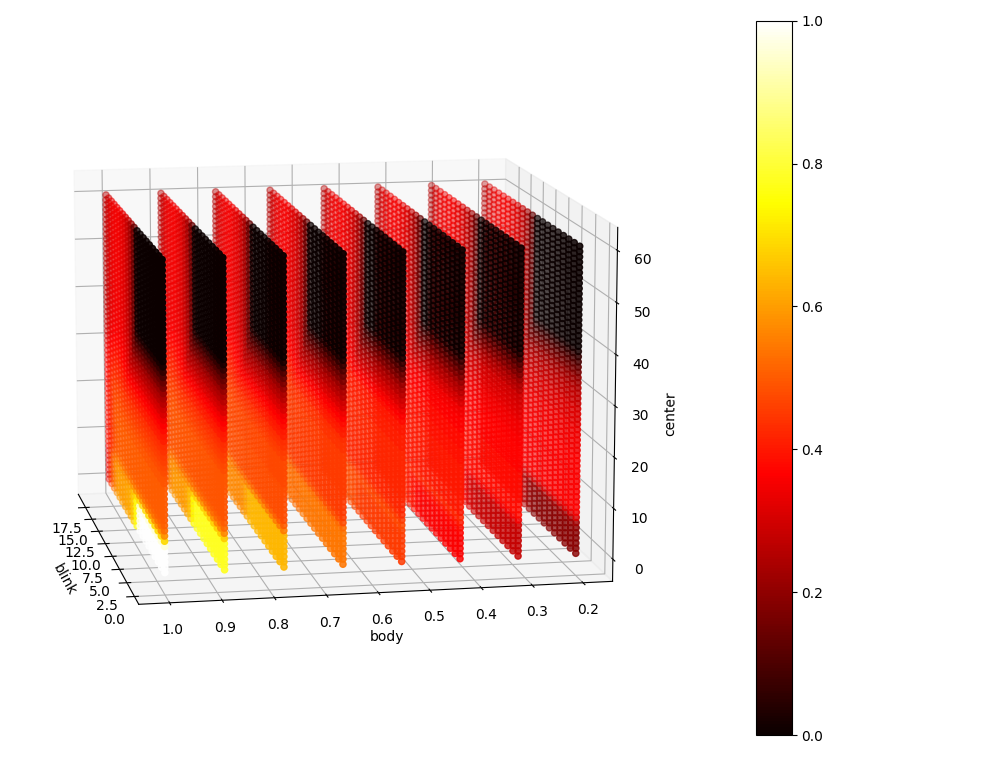
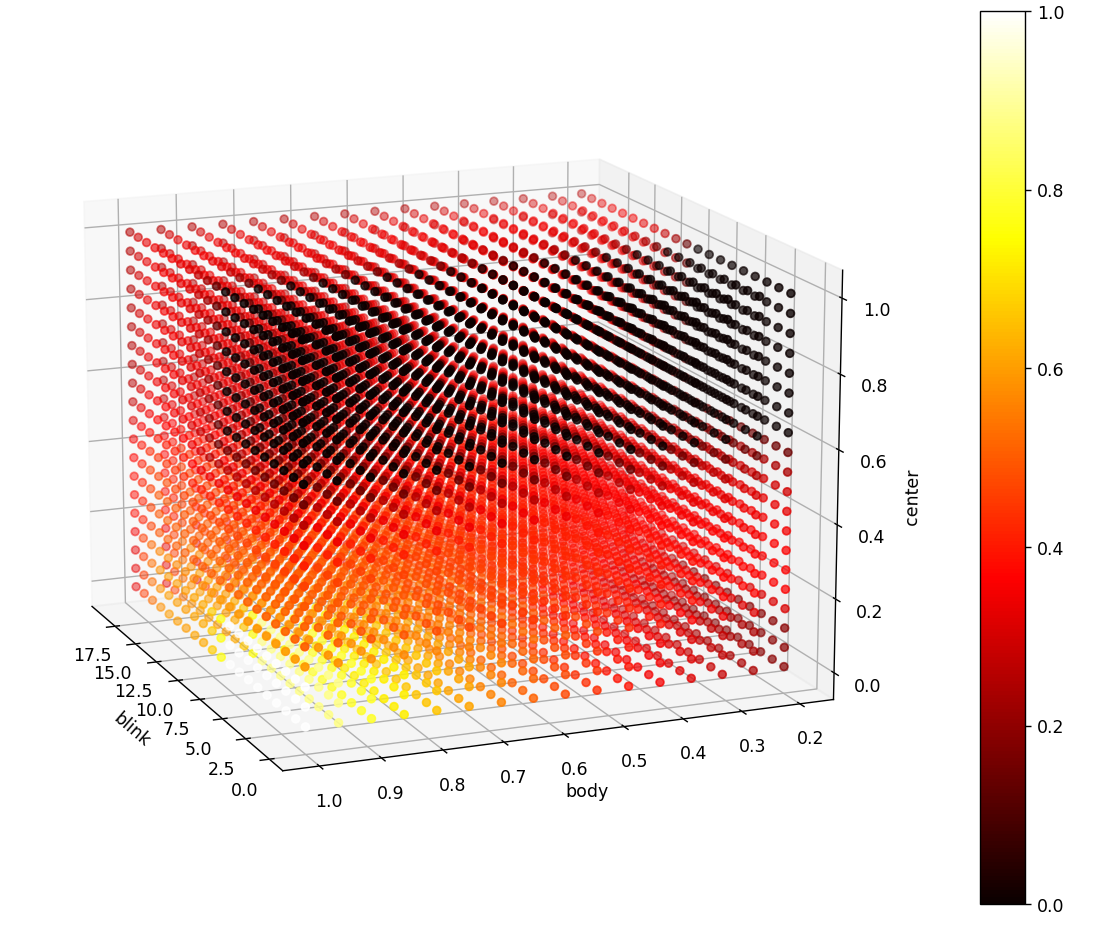
Combine distance and ratio into single value

diff --git a/concentration/fuzzy/grader.py b/concentration/fuzzy/grader.py
@@ -25,7 +25,7 @@ class FuzzyGrader:
             self,
             blink_rate: float,
             body_concent: float,
-            center_dist: float,
+            center_value: float,
             *, normalized: bool = True) -> float:
         """Computes the grade base on fuzzy logics.
 
@@ -36,16 +36,16 @@ class FuzzyGrader:
             blink_concent: The body concentration value, which should be in range [0, 1].
             normalized: Normalize the grade into [0, 1] or not. True in default.
         """
-        self._grader.input["blink"] = FuzzyGrader._map_blink_rate_to_membership_value(blink_rate)
-        self._grader.input["body"] = FuzzyGrader._map_body_concent_to_membership_value(body_concent)
-        self._grader.input["center"] = center_dist
+        self._grader.input["blink"] = blink_rate
+        self._grader.input["body"] = body_concent
+        self._grader.input["center"] = center_value
         self._grader.compute()
 
         grade: float = self._grader.output["grade"]
         if normalized:
             grade = FuzzyGrader._to_modified_grade(grade)
-        # if grade < 0.3:
-        #     print(grade, blink_rate, body_concent, center_dist)
+        if grade < 0.6:
+            print(grade, blink_rate, body_concent, center_value)
         return round(grade, 2)
 
     def view_membership_func(self) -> None:
@@ -68,16 +68,16 @@ class FuzzyGrader:
 
     def _create_membership_func_of_body(self) -> None:
         # The greater the values is, the better the grade of body concentration is.
-        self._body = ctrl.Antecedent(np.arange(11), "body")
-        self._body["good"] = fuzz.trimf(self._body.universe, [0, 10, 10])
-        self._body["poor"] = fuzz.trimf(self._body.universe, [0, 0, 10])
+        self._body = ctrl.Antecedent(np.arange(0, 2, 1), "body")
+        self._body["good"] = fuzz.trimf(self._body.universe, [0, 1, 1])
+        self._body["poor"] = fuzz.trimf(self._body.universe, [0, 0, 1])
 
     def _create_membership_func_of_center(self) -> None:
         """Only takes the distance betweeen centers into consideration."""
-        self._center = ctrl.Antecedent(np.arange(61), "center")
-        self._center["good"] = fuzz.trapmf(self._center.universe, [0, 0, 5, 10])
-        self._center["average"] = fuzz.trapmf(self._center.universe, [5, 10, 15, 40])
-        self._center["poor"] = fuzz.trapmf(self._center.universe, [15, 40, 60, 60])
+        self._center = ctrl.Antecedent(np.arange(0, 1, 0.01), "center")
+        self._center["good"] = fuzz.trapmf(self._center.universe, [0, 0, 0.13, 0.2])
+        self._center["average"] = fuzz.trapmf(self._center.universe, [0.13, 0.2, 0.27, 0.63])
+        self._center["poor"] = fuzz.trapmf(self._center.universe, [0.27, 0.63, 1, 1])
 
     def _create_membership_func_of_grade(self, defuzzify_method: str = "centroid") -> None:
         """
@@ -100,36 +100,14 @@ class FuzzyGrader:
 
     def _create_fuzzy_rules(self) -> List[ctrl.Rule]:
         """Returns the fuzzy rule that control the grade."""
-        rule1 = ctrl.Rule(self._center["poor"] | self._body["poor"] | self._blink["poor"], self._grade["low"])
+        rule1 = ctrl.Rule(self._blink["poor"] | self._body["poor"] | self._center["poor"], self._grade["low"])
         rule2 = ctrl.Rule(self._blink["average"] | self._center["average"], self._grade["medium"])
-        rule3 = ctrl.Rule(self._center["good"] & self._body["good"] & ~self._blink["poor"], self._grade["high"])
+        rule3 = ctrl.Rule(~self._blink["poor"] & self._body["good"] & self._center["good"], self._grade["high"])
         return [rule1, rule2, rule3]
 
     @staticmethod
-    def _map_blink_rate_to_membership_value(blink_rate: float) -> float:
-        """Returns the membership value of the blink rate.
-
-        Arguments:
-            blink_rate
-        """
-        # they're equivalent
-        return blink_rate
-
-    # The body concentration (BC) sent by the ConcentrationGrader is between 0 and 1,
-    # maps them to the membership values (MV) through an easy function: MV = BC * 10
-    # since skfuzzy does better on generating membership functions with non-floating
-    # point intervals.
-    @staticmethod
-    def _map_body_concent_to_membership_value(body_concent: float) -> float:
-        """Returns the membership value of the body concentration.
-
-        Arguments:
-            body_concent
-        """
-        return body_concent * 10
-
-    @staticmethod
     def _to_modified_grade(raw_grade: float) -> float:
+        # (2.0, 8.67)
         return 0.1499 * raw_grade - 0.2999
         # """Normalizes the grade interval to [0, 1] and do linear modification
         #    to fine-tune the grade distribution.
@@ -151,7 +129,7 @@ class FuzzyGrader:
 
 if __name__ == "__main__":
     fuzzy_grader = FuzzyGrader()
-    # fuzzy_grader.view_membership_func()
+    fuzzy_grader.view_membership_func()
 
     import matplotlib.pyplot as plt
     import numpy as np
@@ -160,17 +138,17 @@ if __name__ == "__main__":
     ax = fig.add_subplot(111, projection='3d')
     x, y, z, c = [], [], [], []
     for blink_rate in np.arange(0, 20):
-        for body_concent in np.linspace(0.2, 1, num=8):
-            for center_dist in np.linspace(0, 60, num=60):
+        for body_concent in np.linspace(0.2, 1, num=16):
+            for center_value in np.linspace(0, 1, num=20):
                 x.append(blink_rate)
                 y.append(body_concent)
-                z.append(center_dist)
-                c.append(fuzzy_grader.compute_grade(blink_rate, body_concent, center_dist))
+                z.append(center_value)
+                c.append(fuzzy_grader.compute_grade(blink_rate, body_concent, center_value))
     ax.set_xlabel("blink")
     ax.set_ylabel("body")
     ax.set_zlabel("center")
 
-    img = ax.scatter(x, y, z, c=c, cmap=plt.hot(), vmin=0, vmax=1)
+    img = ax.scatter(x, y, z, c=c, cmap=plt.hot())#, vmin=0, vmax=1)
     fig.colorbar(img)
     plt.show()
     # # go for a single graph check

diff --git a/concentration/grader.py b/concentration/grader.py
@@ -246,15 +246,15 @@ class ConcentrationGrader(QObject):
         if interval_type in {IntervalType.LOOK_BACK, IntervalType.EXTRUSION}:
             if interval_type is IntervalType.EXTRUSION:
                 # Use an average-based BR.
-                blink_rate *= ONE_MIN / (interval.end-interval.start)
-            interval.grade = self._fuzzy_grader.compute_grade(blink_rate, body_concent, dist)
+                blink_rate *= ONE_MIN / (interval.end - interval.start)
+            interval.grade = self._fuzzy_grader.compute_grade(blink_rate, body_concent, face_center_value_from_distance_and_ratio(dist, ratio))
             self.s_concent_interval_refreshed.emit(interval)
             logger.info(f"{dist:.2f}")
             logger.info(f"{ratio:.2f}")
             self._clear_windows(window_type)
             return True
         # REAL_TIMEs
-        grade: float = self._fuzzy_grader.compute_grade(blink_rate, body_concent, dist)
+        grade: float = self._fuzzy_grader.compute_grade(blink_rate, body_concent, face_center_value_from_distance_and_ratio(dist, ratio))
         if grade >= 0.6:
             interval.grade = grade
             self.s_concent_interval_refreshed.emit(interval)
@@ -292,7 +292,7 @@ class ConcentrationGrader(QObject):
 
         # Choose a neutral middle value for blink rate
         blink_rate = 10
-        interval.grade = self._fuzzy_grader.compute_grade(blink_rate, body_concent, dist)
+        interval.grade = self._fuzzy_grader.compute_grade(blink_rate, body_concent, face_center_value_from_distance_and_ratio(dist, ratio))
         self.s_concent_interval_refreshed.emit(interval)
         logger.info(f"{dist:.2f}")
         logger.info(f"{ratio:.2f}")
@@ -310,3 +310,12 @@ class ConcentrationGrader(QObject):
         self._face_center_counter.clear_windows(window_type)
         if window_type is WindowType.CURRENT:
             self._face_existence_counter.clear_windows()
+
+
+def face_center_value_from_distance_and_ratio(center_dist: float, ratio: float) -> float:
+    """0 ~ 1, the lower the better."""
+    # left close, right open
+    DIST_RANGE = [(0, 10), (10, 15), (15, 60)]
+    RATE_RANGE = [(0.9, 1), (0.7, 0.9), (0, 0.7)]
+    center_dist = min(center_dist, 60)  # saturate
+    return (center_dist / 60 + (1 - ratio)) / 2

diff --git a/face_center/README.md b/face_center/README.md
@@ -27,6 +27,6 @@ Status             | Ratio     | Distance
 -------------------|-----------|---------
 High Concentration | 0.9 ~ 1   | ~ 5
 Middle             | 0.7 ~ 0.9 | 10 ~ 15
-High Distraction   | 0.5 ~ 5   | 15 ~ 55
+High Distraction   | 0.5 ~     | 15 ~ 55
 
 The values don't cover the whole range and even overlap because their boundaries aren't that clear.

diff --git a/concentration/fuzzy/README.md b/concentration/fuzzy/README.md
@@ -8,6 +8,6 @@
   - posture
 - face center
   - distance
-  - ratio (not yet involved)
+  - ratio
 
 <img src="./fuzzy_mapping.png" alt="mapping with fuzzy logic" width=500 height=380>
